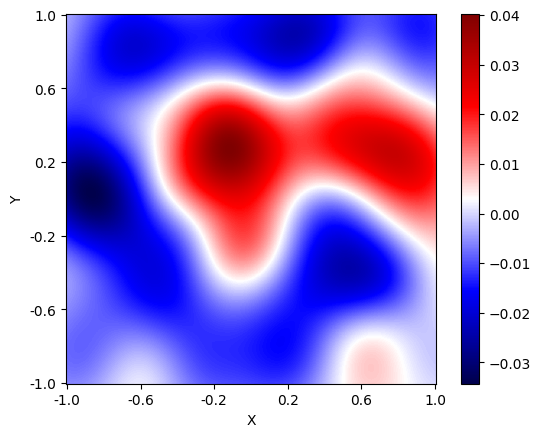
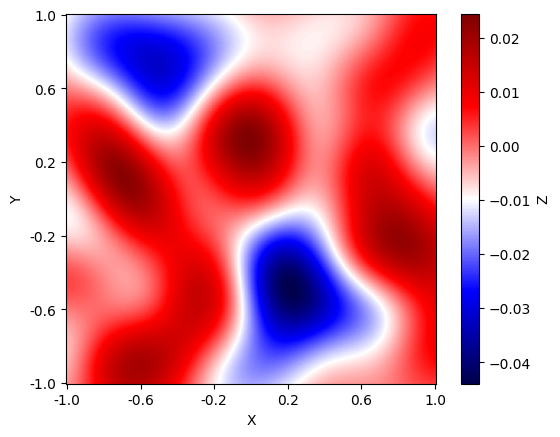
final farfield.py label modification

diff --git a/farfield.py b/farfield.py
@@ -44,7 +44,7 @@ for i, xi in enumerate(x):
 # Plotting
 fig1, ax1 = plt.subplots()
 im1 = ax1.imshow(Z, cmap='seismic', origin='lower')
-plt.colorbar(im1, ax=ax1)
+plt.colorbar(im1, ax=ax1, label='Z')
 ax1.set_xlabel('X')
 ax1.set_ylabel('Y')
 
@@ -55,8 +55,8 @@ ax2.set_ylabel('Y')
 
 fig3, ax3 = plt.subplots()
 im3 = ax3.imshow(I, cmap='gray', clim=(0, 12), origin='lower', interpolation='bicubic')
-ax3.set_xlabel('A')
-ax3.set_ylabel('B')
+ax3.set_xlabel("X'")
+ax3.set_ylabel("Y'")
 
 step = N // 5
 axes = [ax1, ax2, ax3]
